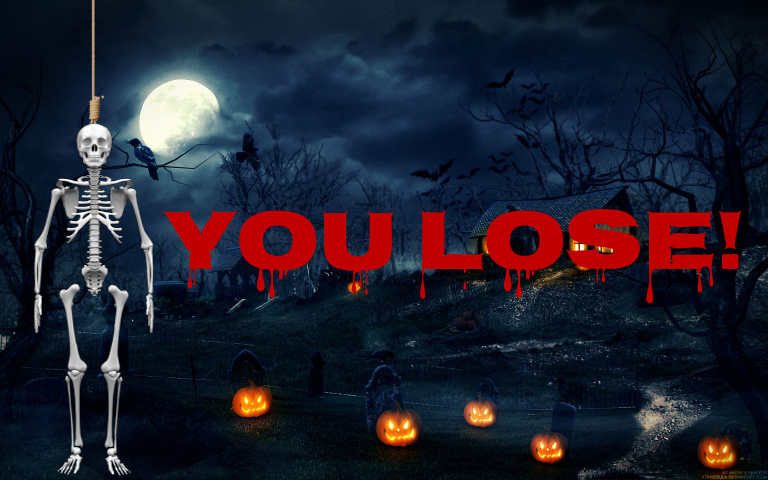
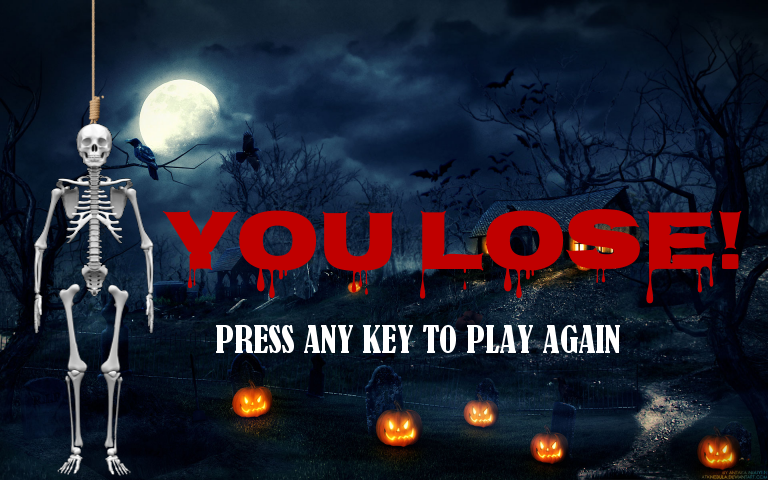
Changed Alert on Loss

Changed region(s): [[0.2812, 0.6562, 0.8125, 0.75]]

diff --git a/assets/javascript/game.js b/assets/javascript/game.js
@@ -17,7 +17,6 @@ var gameState = {
 
 }
 
-
 // Create an array of possible words
 
 var wordsArr = ["pumpkin", "costume", "ghost", "goblin", "vampire", "witch", "princess", "candy", "party","cauldron","spooky","scarecrow","graveyard","tombstone","monster","zombie","mummy","skeleton","werewolf","demon","cackle","scythe","coffin","voodoo","banshee","haunted","macabre","cobwebs","decomposed","candles","bewitching","creaking","frightened","grotesque","ghastly","nightmare","pentagram","phantom","scream","spectral","spider","spirit","supernatural","tortured","troll","twilight","midnight",];
@@ -144,17 +143,25 @@ function wonGame() {
 	gameState.incorrectLetters = [];
 	randomWord();
 	initDisplayWord(gameState.guessWord);
-
 }
 
 // Lost Game losses increment
 function lostGame() {
 	gameState.losses += 1;
-	var youLost = document.getElementById("losses");
-	youLost.innerHTML = "Losses: "+gameState.losses;
 	var lostWord = document.getElementById("displayWord");
 	lostWord.innerHTML = gameState.guessWord.toUpperCase();
-	alert("You Lost!");
+	var youLost = document.getElementById("losses");
+	youLost.innerHTML = "Losses: "+gameState.losses;
+
+	document.onkeyup = function() {
+
+	resetGame();
+
+}
+
+}
+
+function resetGame(){
 	gameState.chances = 6;
 	gameState.displayWord = "";
 	gameState.guessWord = "";
@@ -163,3 +170,4 @@ function lostGame() {
 	randomWord();
 	initDisplayWord(gameState.guessWord);
 }
+
